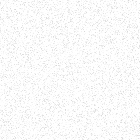
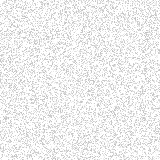
Backdrop: tile grain across full window (explicit size) + stronger noise
resizeMode=repeat only tiles with a concrete width/height, so absoluteFill alone
showed a single tile in the corner. Size the grain Image to the window and
regenerate a denser noise texture.

Changed region(s): [[0.0, 0.0, 1.0, 1.0], [0.9714, 0.9143, 1.0, 0.9429], [0.4286, 0.8286, 0.4571, 0.8571]]

diff --git a/src/components/Backdrop.tsx b/src/components/Backdrop.tsx
@@ -1,12 +1,16 @@
-import { Image, StyleSheet, View } from 'react-native';
+import { Image, StyleSheet, View, useWindowDimensions } from 'react-native';
 import { LinearGradient } from 'expo-linear-gradient';
 
 import { useScheme } from '@/components/ui';
 
 /* Branded app background: a deep purple gradient with a fine film-grain texture
-   tiled over it. Drop as the first child of a screen's (transparent) root. */
+   tiled over it. Drop as the first child of a screen's (transparent) root.
+   The grain Image gets an explicit full-window size — RN's resizeMode="repeat"
+   only tiles when the frame has concrete width/height (absoluteFill alone renders
+   a single tile). */
 export function Backdrop() {
   const dark = useScheme() === 'dark';
+  const { width, height } = useWindowDimensions();
   const colors = dark
     ? (['#241640', '#160f2b', '#0a0712'] as const)
     : (['#f7f4fd', '#efe9fb', '#f6f3fc'] as const);
@@ -16,7 +20,7 @@ export function Backdrop() {
       <Image
         source={require('../assets/noise.png')}
         resizeMode="repeat"
-        style={[StyleSheet.absoluteFill, { opacity: dark ? 0.7 : 0.5 }]}
+        style={{ position: 'absolute', top: 0, left: 0, width, height, opacity: dark ? 0.5 : 0.4 }}
       />
     </View>
   );